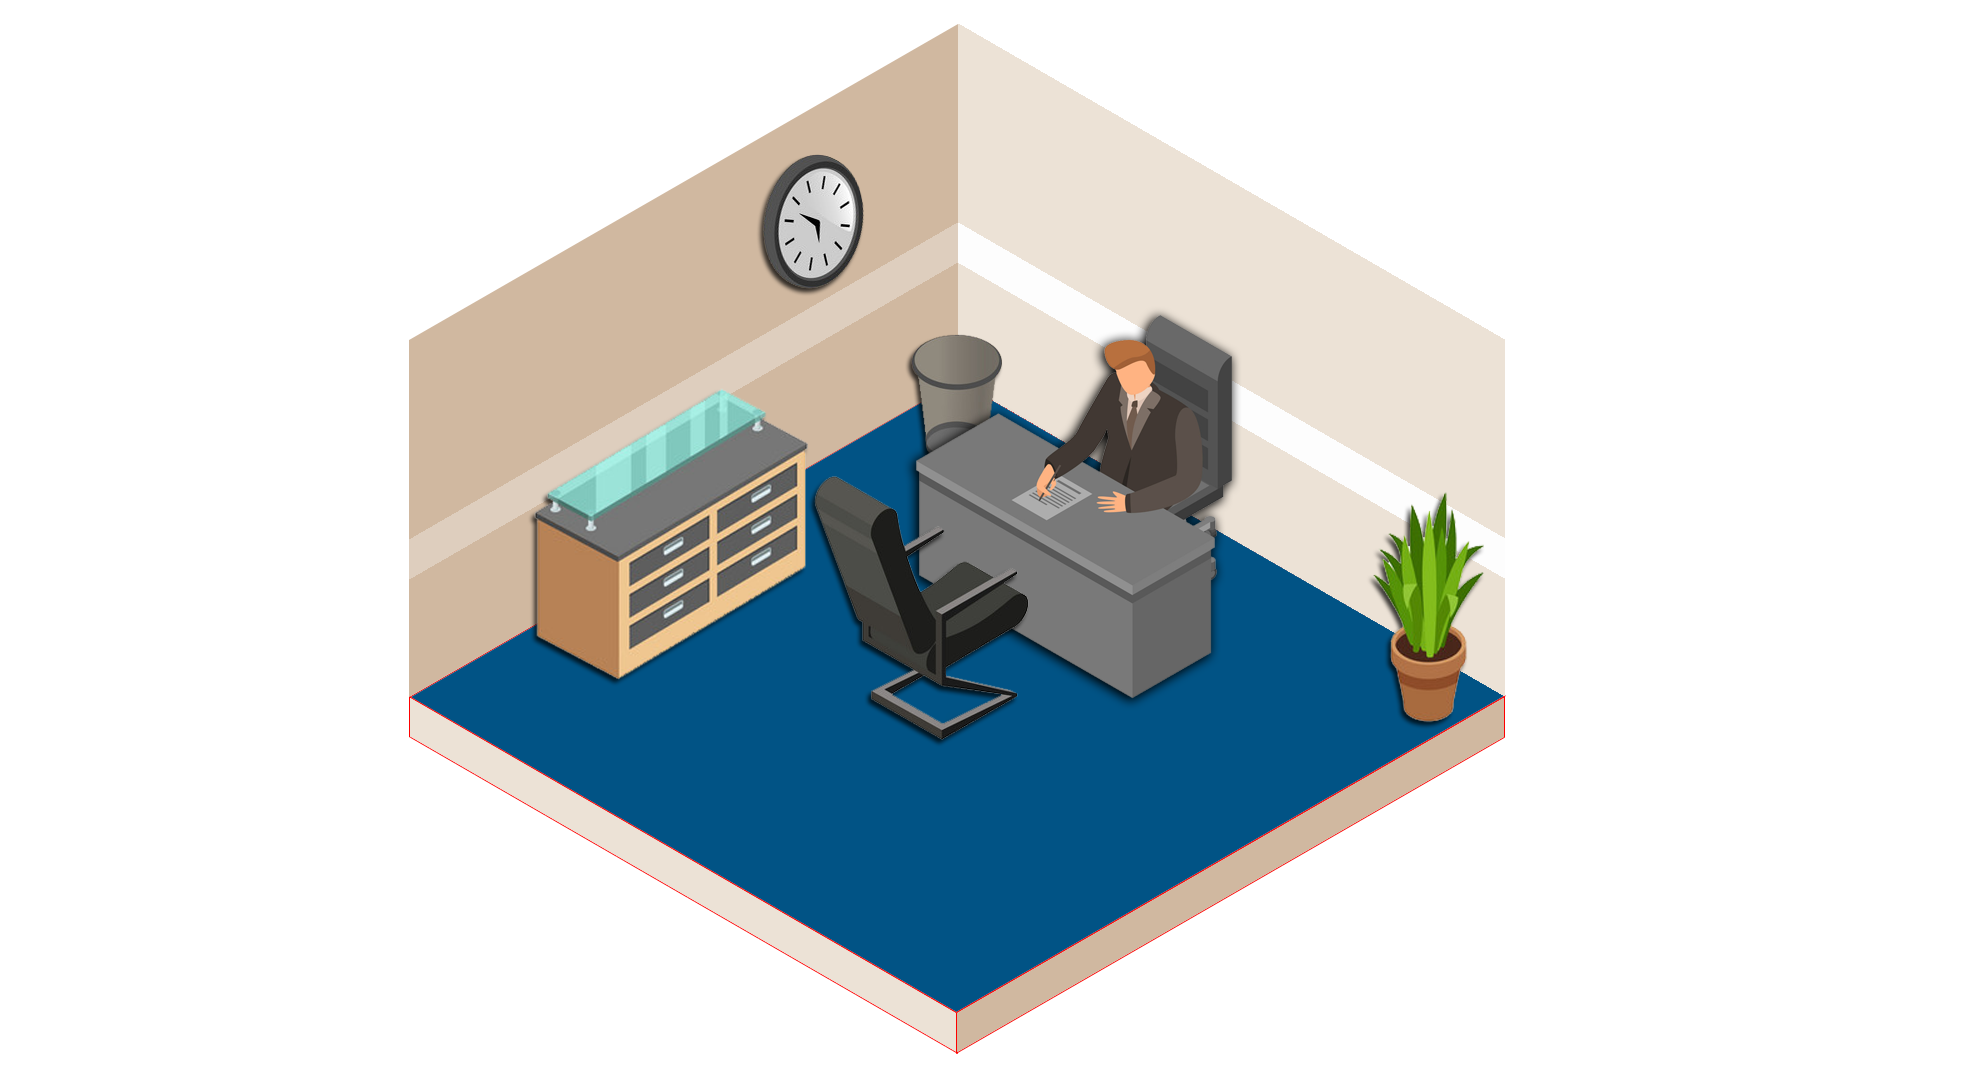
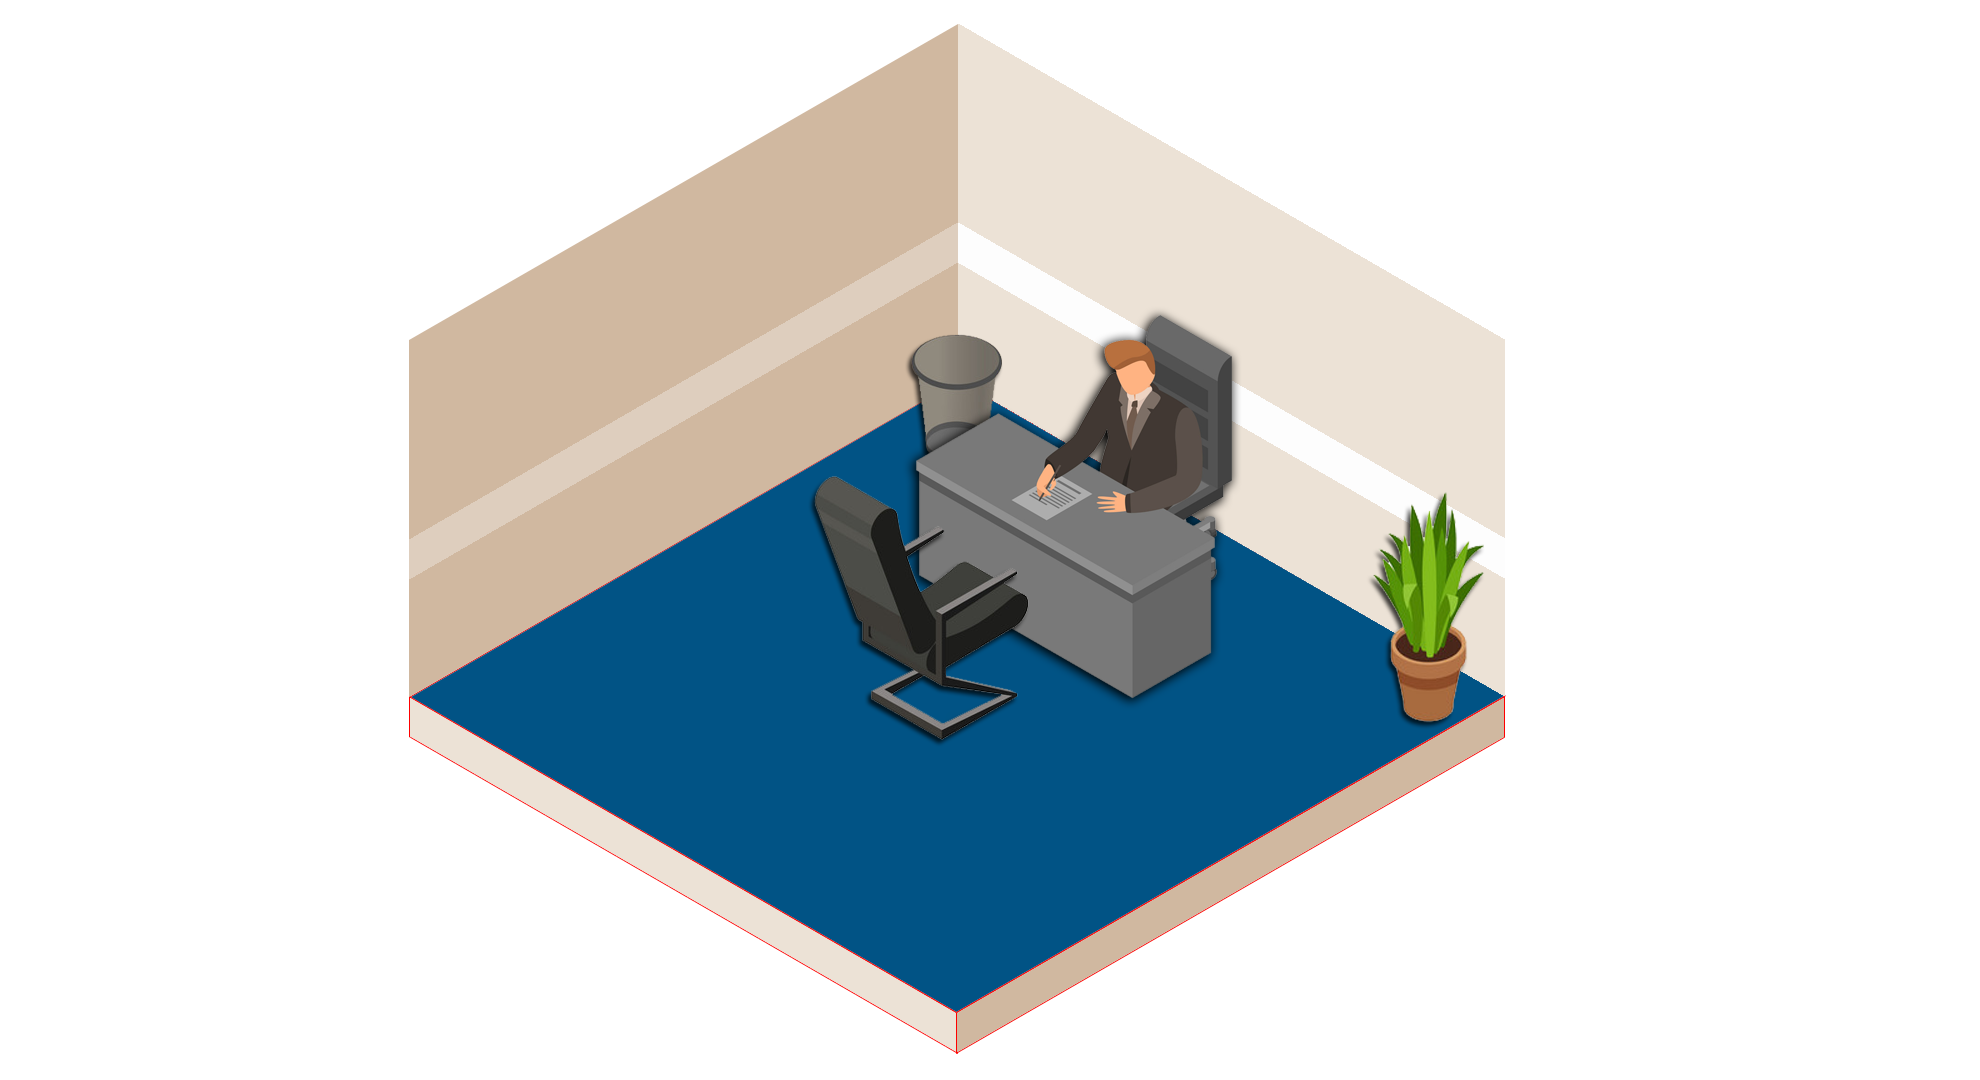
Fix Bg

Changed region(s): [[0.2465, 0.3667, 0.4313, 0.6417], [0.3697, 0.1222, 0.4621, 0.275]]

diff --git a/sources/stage.html b/sources/stage.html
@@ -173,7 +173,7 @@
     </div>
     <div class='stage'>
         <div class='fixed'>
-            <img src="item_picture/bg.png" width="100%">
+            <img src="item_picture/State.png" width="100%">
         </div>
         <div id='action' class='assistant' onclick="javascript:showMyModalSetTitle2('', '')">
             <img src="item_picture/Assistant.png" width="100%">
